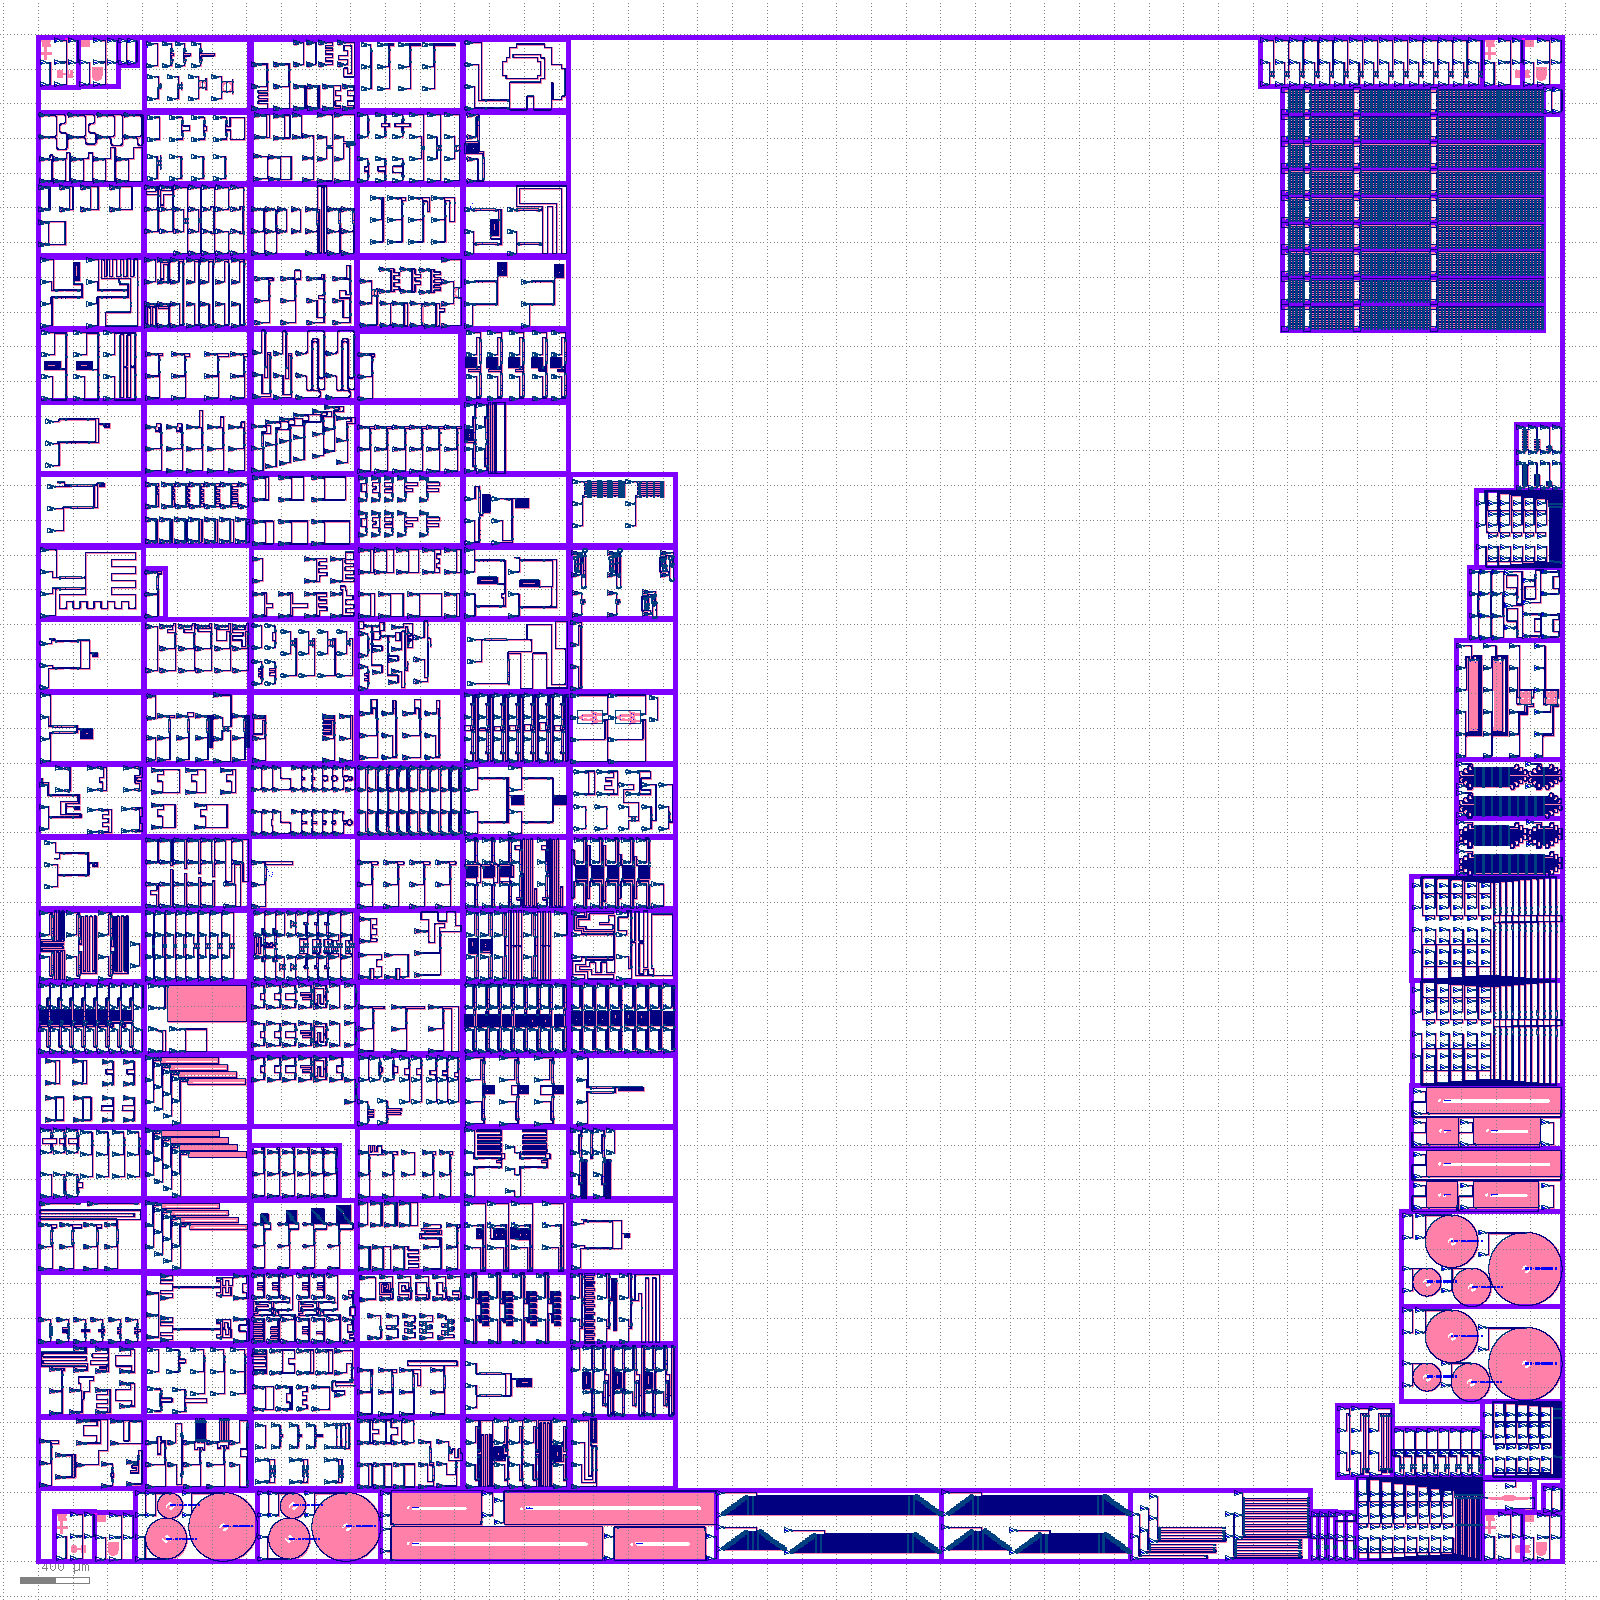
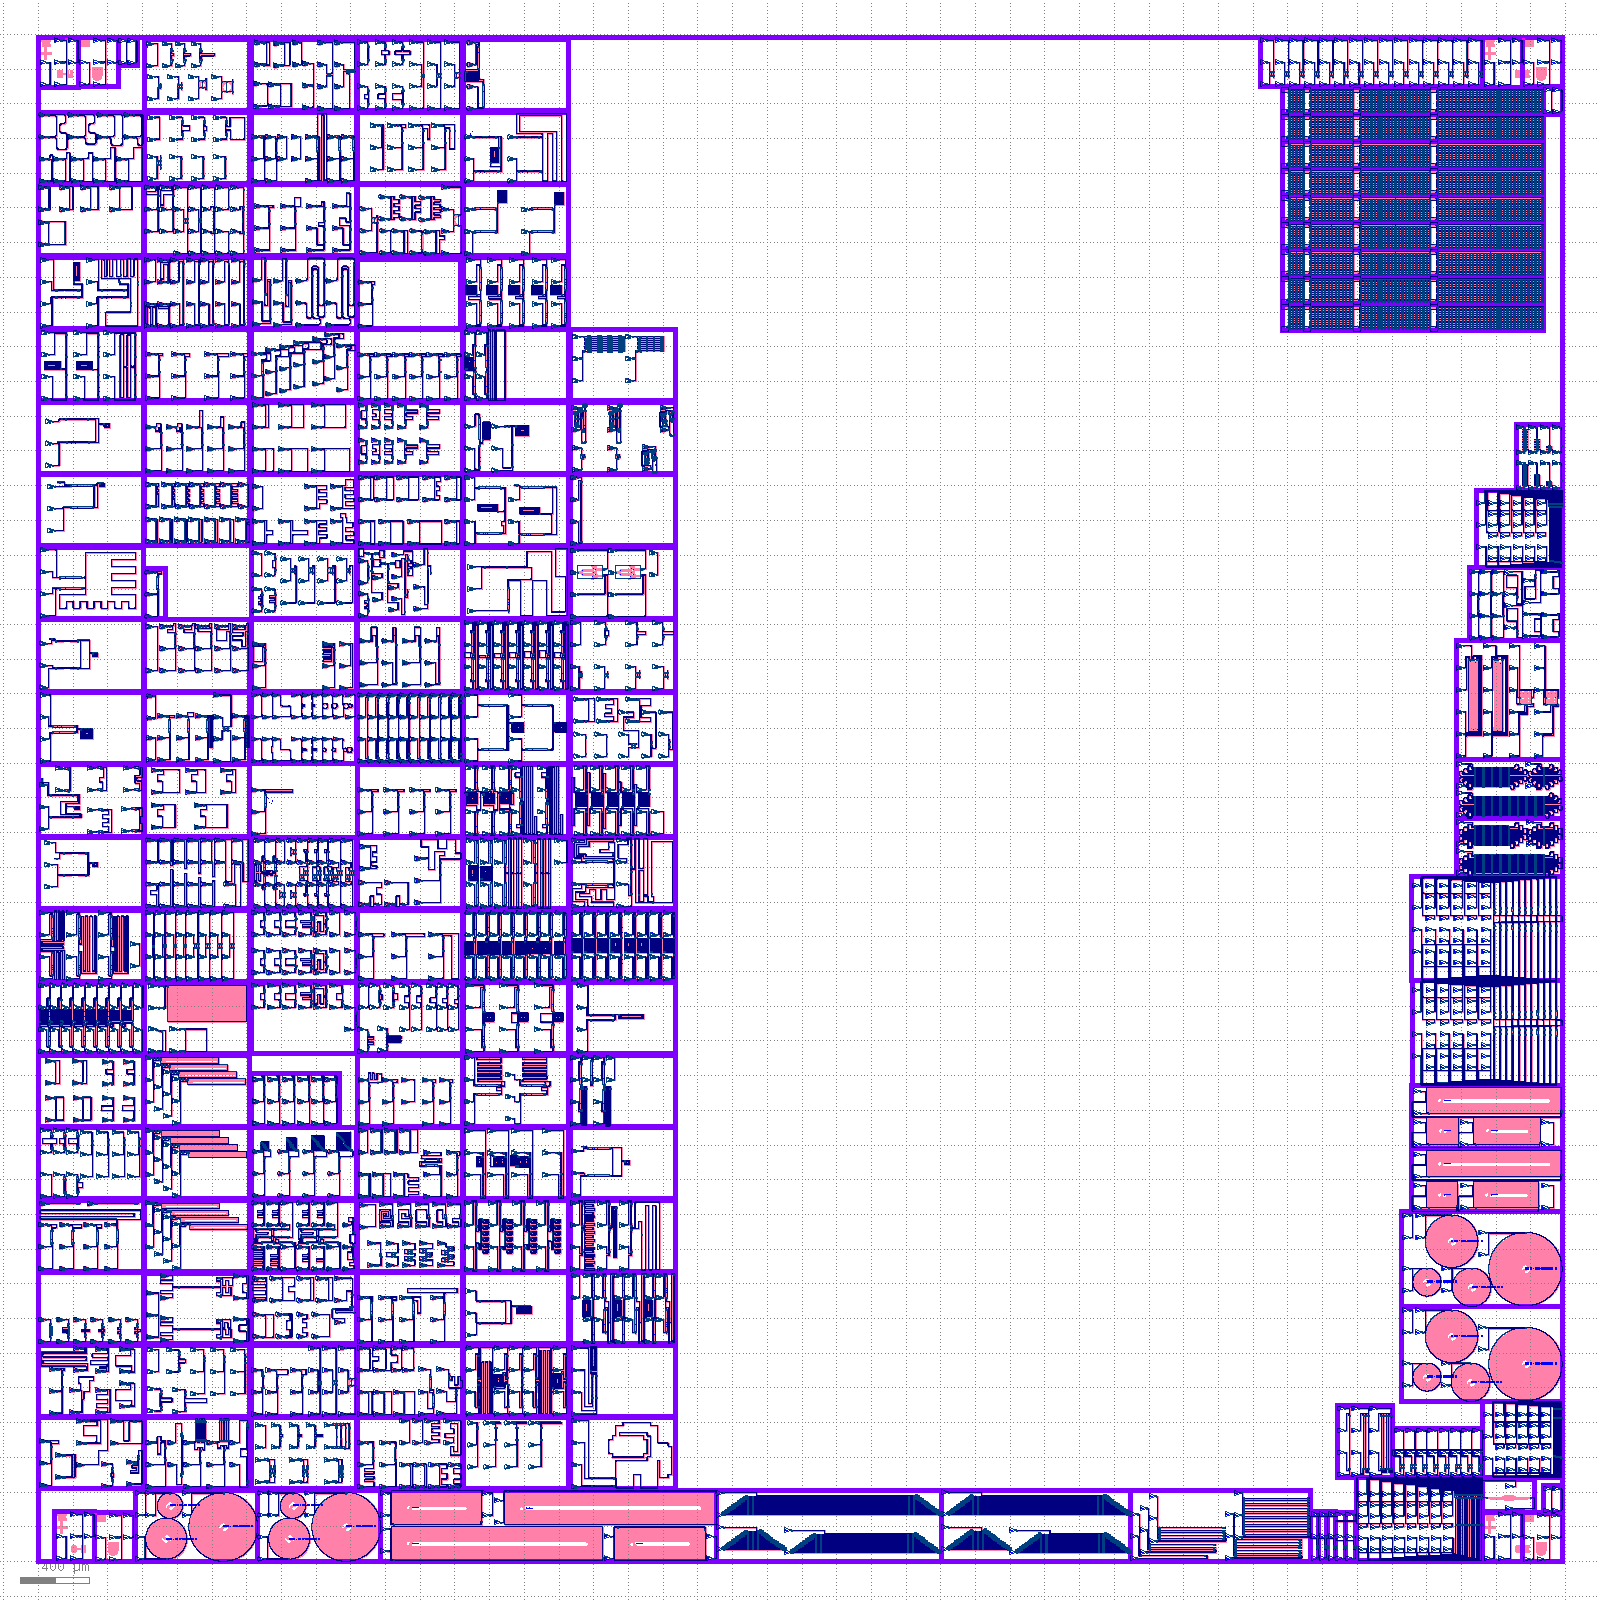
Aggregation layout: https://github.com/SiEPIC/openEBL-2025-02/actions/runs/13318922426/artifacts/2589428031

Changed region(s): [[0.1562, 0.0, 0.4375, 0.9375]]

diff --git a/README.md b/README.md
@@ -82,5 +82,5 @@ The verification and merging is performed using GitHub actions. The repository i
 
 Click on the following link to download the EBeam.oas merged layout file:
 <!-- start-link -->
-https://github.com/SiEPIC/openEBL-2025-02/actions/runs/13318912938/artifacts/2589425261
+https://github.com/SiEPIC/openEBL-2025-02/actions/runs/13318922426/artifacts/2589428031
 <!-- end-link -->
